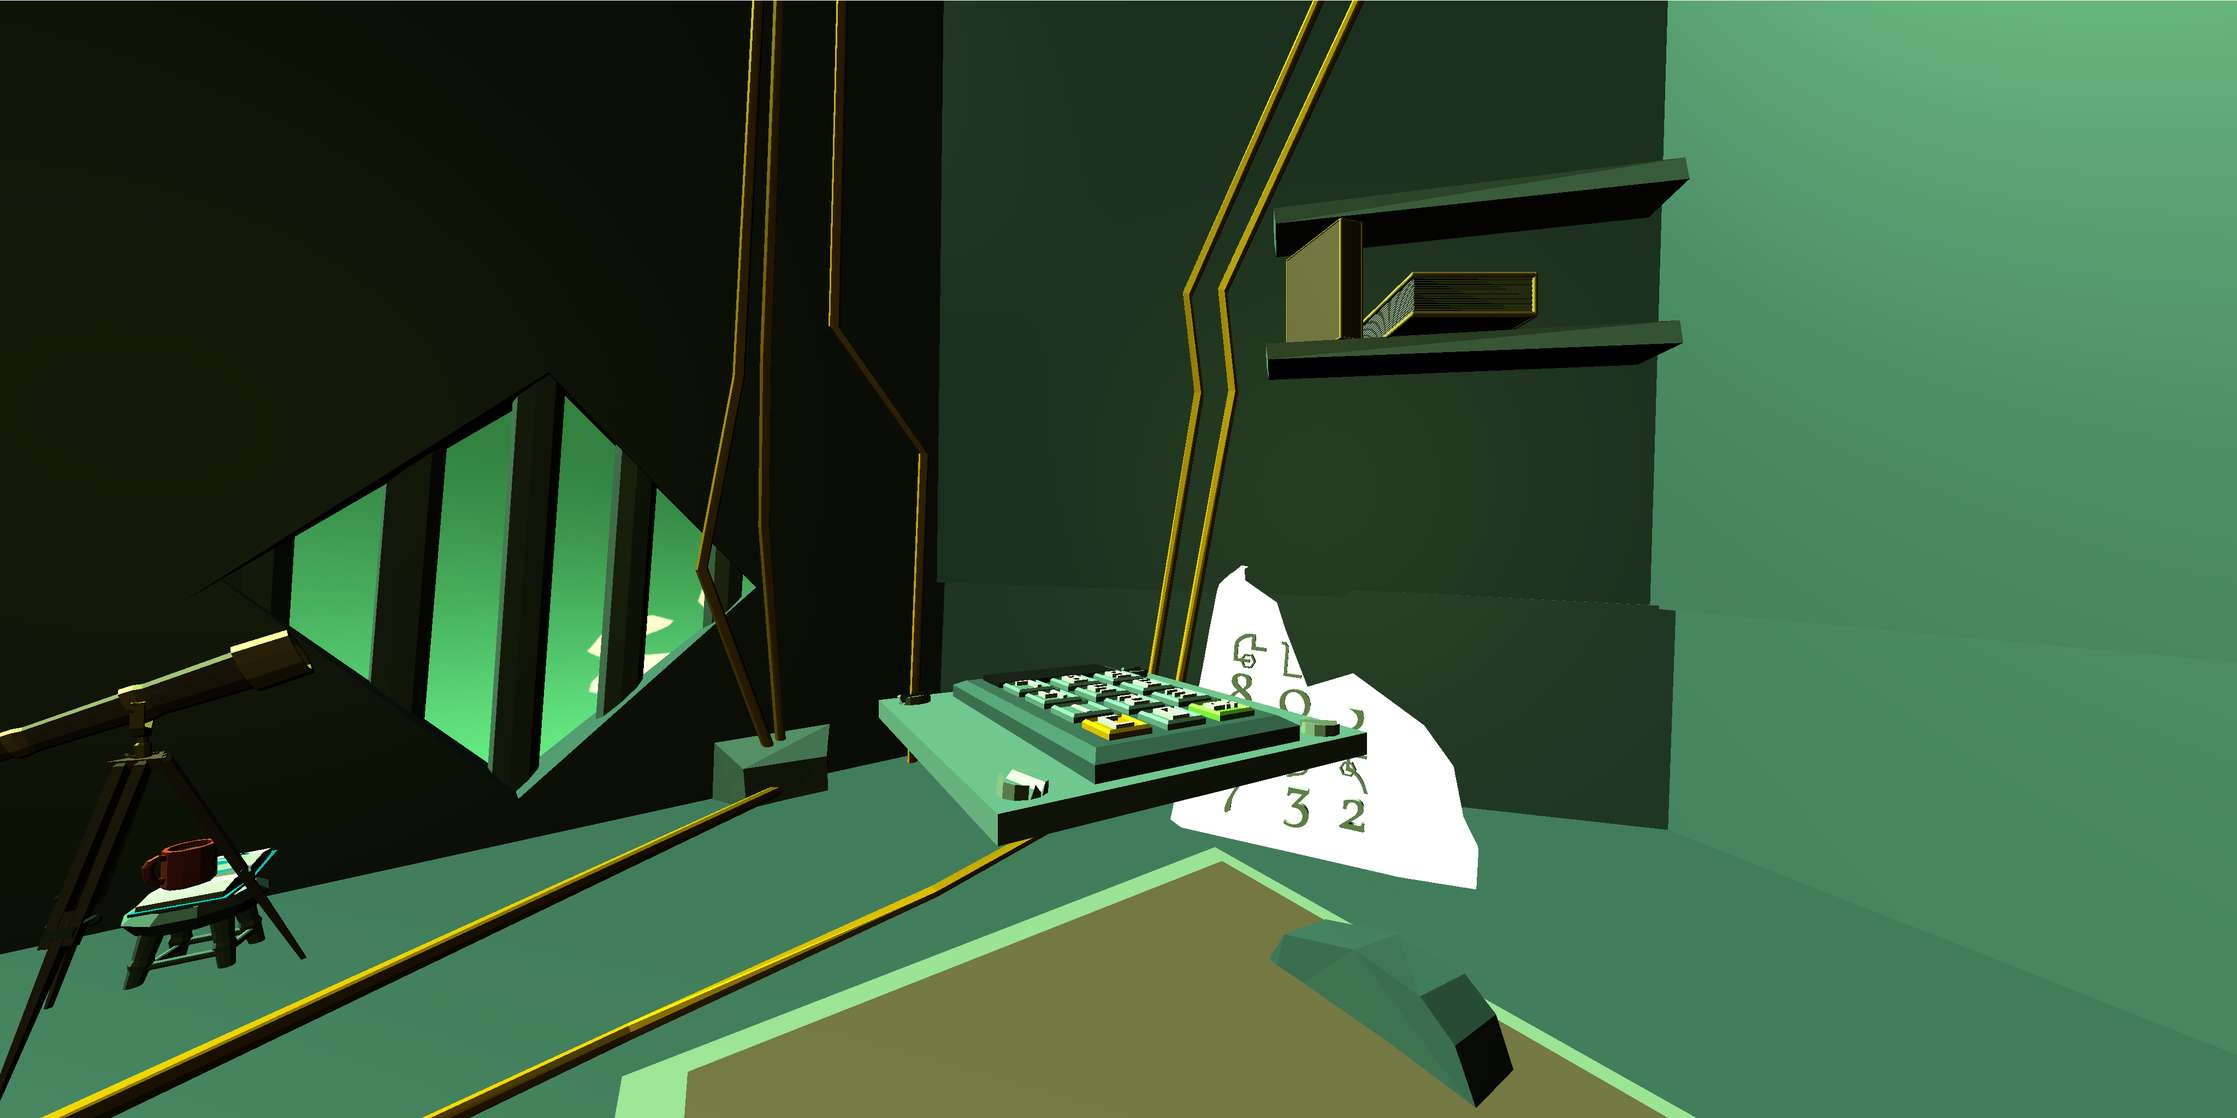
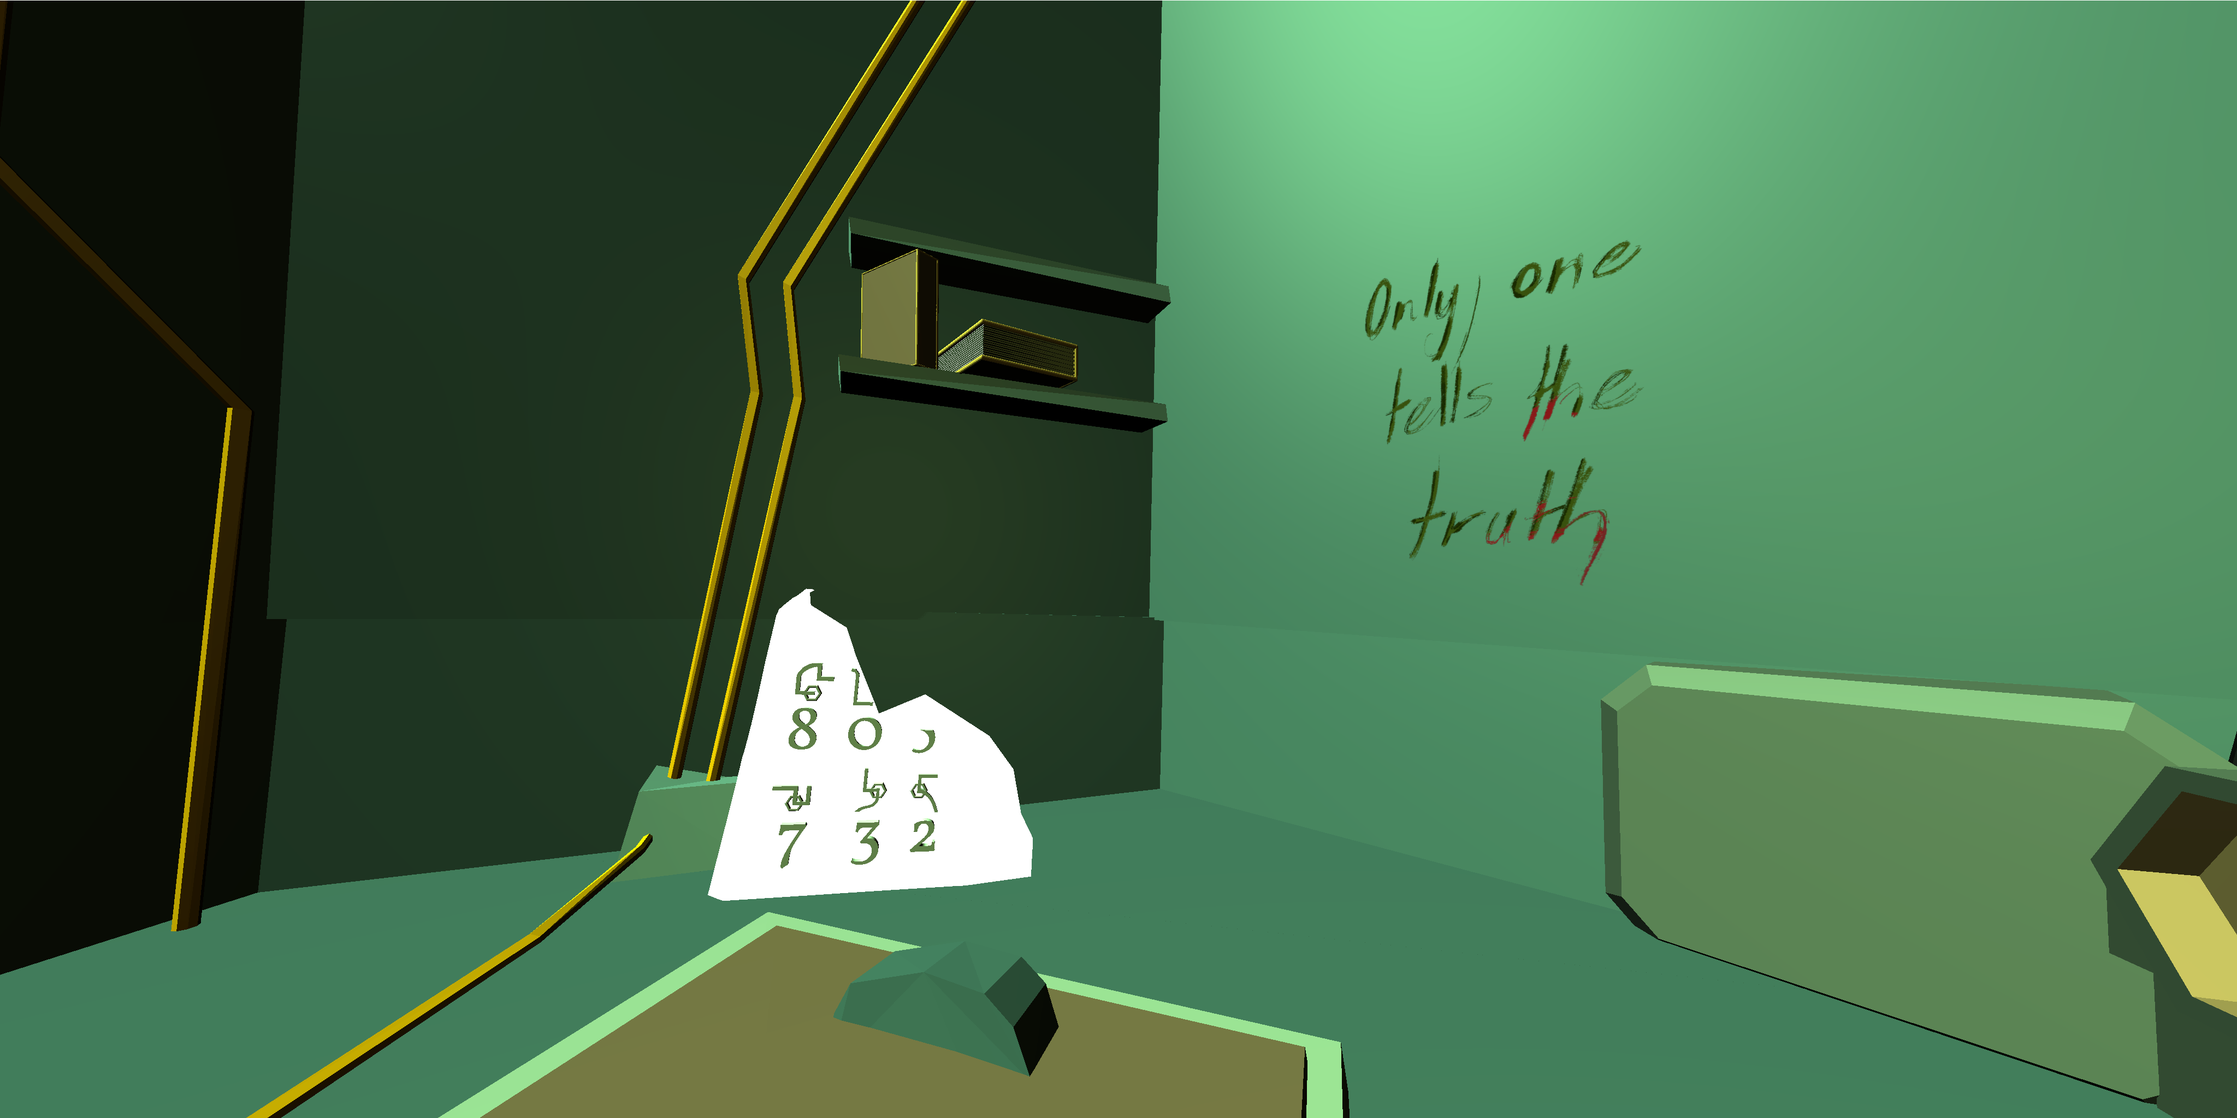
ONLY ONE TRUTH

diff --git a/Hologram/PolyislandHologram.hologram/hologram/build/main.js b/Hologram/PolyislandHologram.hologram/hologram/build/main.js
@@ -1,4 +1,4 @@
-window.__assets={"29AEseoy9pN_cBcC1gPzvzs_obj":"29AEseoy9pN_cBcC1gPzvzs_obj/model.obj","2oA770SsWii_5JYR_gBc26__obj":"2oA770SsWii_5JYR_gBc26__obj/1302 Sump Pump.obj","3HJCpDzBQEw_3fftnnyZGpe_obj":"3HJCpDzBQEw_3fftnnyZGpe_obj/model.obj","8BCxcUDQaOY_obj":"8BCxcUDQaOY_obj/model.obj","Cross":"Cross.png","Keypad":"Keypad/keypad.obj","Labyrinth1":"Labyrinth1.5.dae","Radio":"Radio/WalkieTalkie.obj","Rune 1":"Rune 1/runeTafelSpliter1 copy.obj","Rune 2":"Rune 2/runeTafelSpliter2 copy.obj","Sky":"Sky.jpg","Skywithclouds":"Skywithclouds.jpg","bMX7za_ikof_obj":"bMX7za_ikof_obj/model.obj","ipvryk":"ipvryk/model-triangulated.obj","nwcfcj":"nwcfcj/model-triangulated.obj","ripped-1806471_1920":"ripped-1806471_1920.png","ripped-1806471_19201":"ripped-1806471_19201.png"};(function(scope) {Hologram.effects.bloom = null;Hologram.scene.fog = null;var __zxzgnpp7q = new Sky({color:"#d9f5ff"});var __oiwibj3ca = new Model({position:"-6.028 -4.158 -3.049",rotation:"-3 -0.19 0",scale:"130 130 130",src:"ipvryk"});var __0l1g51flh = new Model({position:"13.639 1.778 5.683",rotation:"180 37.34 -0.18",scale:"0.1 0.1 0.1",src:"2oA770SsWii_5JYR_gBc26__obj"});var __suwrsnb7m = new Model({position:"19.612 0.113 -1.184",rotation:"90 37.34 124.49",scale:"0.1 0.1 0.1",src:"2oA770SsWii_5JYR_gBc26__obj"});var __0vqwbbd64 = new Model({position:"1.187 -3.417 5.834",scale:"0.3 0.3 0.3",shadow:false,src:"Labyrinth1"});var __vqom8n6h5 = new Image({position:"1.545 -3.59 3.892",rotation:"-90 0 0",scale:"0.6 0.6 1",src:"Cross"});var __8shd53ptg = new Image({position:"2.225 -3.601 4.415",rotation:"-90 0 0",scale:"0.6 0.6 1",src:"Cross"});var __bxupqmly2 = new Image({position:"2.541 -3.568 5.471",rotation:"-90 0 0",scale:"0.6 0.6 1",src:"Cross"});var __khjr1dywg = new Image({position:"3.722 -3.608 4.32",rotation:"-90 0 0",scale:"0.6 0.6 1",src:"Cross"});var __virteqqxn = new Image({position:"4.649 -3.615 3.445",rotation:"-90 0 0",scale:"0.44 0.27 1",src:"Cross"});var __brtwim0gi = new Image({position:"5.913 -3.601 1.525",rotation:"-90 0 0",scale:"0.42 0.47 1",src:"Cross"});var __0b3lhis7g = new Image({position:"5.48 -3.605 1.424",rotation:"-90 0 0",scale:"0.6 0.56 1",src:"Cross"});var __d9syhfhsa = new Image({position:"3.45 -3.579 2.48",rotation:"-90 0 0",scale:"0.6 0.6 1",src:"Cross"});var __u2r279o6p = new Image({position:"5.313 -3.627 4.672",rotation:"-90 0 0",scale:"0.53 0.4 1",src:"Cross"});var __eouodeegt = new Image({position:"2.3 -3.486 1.615",rotation:"90 0 14.25",scale:"0.43 0.38 1",src:"Cross"});var __362yxpuyb = new Model({position:"-0.994 -2.992 -0.057",rotation:"-69.08 -0.8 0.45",scale:"0.2 0.2 0.2",src:"Radio"});var __u408lqdzr = new Image({position:"-38.201 3.344 -44.89",rotation:"0 54.19 -2.15",scale:"30 30 1",src:"Skywithclouds"});var __yrn79zdqv = new Image({position:"-5.815 -3.521 4.745",rotation:"90 28.018 55.176",scale:"2 2.25 1",src:"ripped-1806471_1920"});var __kguf75lg4 = new Image({position:"-5.159 -3.498 4.158",rotation:"-89.15223292235609 109.95060088560498 10.599719209920229",scale:"2 2.43 1",src:"ripped-1806471_19201"});var __py90lgyhr = new Model({position:"-13.808 -3.916 0.011",rotation:"2.0626480624709633 86.34473972621505 7.906817572805362",scale:"0.1 0.1 0.1",src:"Rune 1"});var __o330b54ub = new Model({position:"4.007 -3.405 -12.18",rotation:"4.583662361046586 -19.308677695908745 -4.927437038125079",scale:"0.12 0.12 0.12",src:"Rune 2"});var __redz2zco5 = new Model({position:"-3.59 -2.244 11.021",rotation:"31.28349561414295 153.20891441798213 1.0313240312354817",scale:"1.3 1.36 1.03",src:"8BCxcUDQaOY_obj"});var __xol5oix7z = new Model({position:"-12.078 -2.77 0.815",scale:"1.59 2.12 1.06",src:"29AEseoy9pN_cBcC1gPzvzs_obj"});var __7reptopur = new Model({position:"-12.078 -2.063 0.815",rotation:"0 18.907607239317166 0",scale:"1.33 1.56 0.97",src:"29AEseoy9pN_cBcC1gPzvzs_obj"});var __c2p4bsm70 = new Model({position:"-0.899 -2.728 12.093",rotation:"-43.20101775286407 -93.56400794486343 -0.8021409131831525",scale:"1.33 1.56 0.97",src:"29AEseoy9pN_cBcC1gPzvzs_obj"});var __uvssot26i = new Model({position:"4.584 7.112 -13.975",rotation:"90 18.908 90",scale:"1.33 1.56 0.97",src:"29AEseoy9pN_cBcC1gPzvzs_obj"});var __fuo2ht8u3 = new Model({position:"6.779 6.291 -13.067",scale:"1.59 2.12 1.06",src:"29AEseoy9pN_cBcC1gPzvzs_obj"});var __xk09lwql1 = new Model({position:"-11.949 -1.91 -7.916",rotation:"0 -103.99183981624441 0",scale:"2.38 2.39 2.35",src:"3HJCpDzBQEw_3fftnnyZGpe_obj"});var __8b65r6yz9 = new Model({position:"0.422 -2.77 -1.865",rotation:"88.12090889112062 112.70079830223294 -100.66868460448563",scale:"1.3 1.3 1.3",src:"bMX7za_ikof_obj"});Object.assign(scope,{});})(window);/******/ (function(modules) { // webpackBootstrap
+window.__assets={"29AEseoy9pN_cBcC1gPzvzs_obj":"29AEseoy9pN_cBcC1gPzvzs_obj/model.obj","2oA770SsWii_5JYR_gBc26__obj":"2oA770SsWii_5JYR_gBc26__obj/1302 Sump Pump.obj","3HJCpDzBQEw_3fftnnyZGpe_obj":"3HJCpDzBQEw_3fftnnyZGpe_obj/model.obj","8BCxcUDQaOY_obj":"8BCxcUDQaOY_obj/model.obj","Cross":"Cross.png","Keypad":"Keypad/keypad.obj","Labyrinth1":"Labyrinth1.5.dae","Radio":"Radio/WalkieTalkie.obj","Rune 1":"Rune 1/runeTafelSpliter1 copy.obj","Rune 2":"Rune 2/runeTafelSpliter2 copy.obj","Sky":"Sky.jpg","Skywithclouds":"Skywithclouds.jpg","bMX7za_ikof_obj":"bMX7za_ikof_obj/model.obj","ipvryk":"ipvryk/model-triangulated.obj","nwcfcj":"nwcfcj/model-triangulated.obj","ripped-1806471_1920":"ripped-1806471_1920.png","ripped-1806471_19201":"ripped-1806471_19201.png","writing on the wall":"writing on the wall.png","WritingWall":"WritingWall.png"};(function(scope) {Hologram.effects.bloom = null;Hologram.scene.fog = null;var __zxzgnpp7q = new Sky({color:"#d9f5ff"});var __oiwibj3ca = new Model({position:"-6.028 -4.158 -3.049",rotation:"-3 -0.19 0",scale:"130 130 130",src:"ipvryk"});var __0l1g51flh = new Model({position:"13.639 1.778 5.683",rotation:"180 37.34 -0.18",scale:"0.1 0.1 0.1",src:"2oA770SsWii_5JYR_gBc26__obj"});var __suwrsnb7m = new Model({position:"19.612 0.113 -1.184",rotation:"90 37.34 124.49",scale:"0.1 0.1 0.1",src:"2oA770SsWii_5JYR_gBc26__obj"});var __0vqwbbd64 = new Model({position:"1.187 -3.417 5.834",scale:"0.3 0.3 0.3",shadow:false,src:"Labyrinth1"});var __vqom8n6h5 = new Image({position:"1.545 -3.59 3.892",rotation:"-90 0 0",scale:"0.6 0.6 1",src:"Cross"});var __8shd53ptg = new Image({position:"2.225 -3.601 4.415",rotation:"-90 0 0",scale:"0.6 0.6 1",src:"Cross"});var __bxupqmly2 = new Image({position:"2.541 -3.568 5.471",rotation:"-90 0 0",scale:"0.6 0.6 1",src:"Cross"});var __khjr1dywg = new Image({position:"3.722 -3.608 4.32",rotation:"-90 0 0",scale:"0.6 0.6 1",src:"Cross"});var __virteqqxn = new Image({position:"4.649 -3.615 3.445",rotation:"-90 0 0",scale:"0.44 0.27 1",src:"Cross"});var __brtwim0gi = new Image({position:"5.913 -3.601 1.525",rotation:"-90 0 0",scale:"0.42 0.47 1",src:"Cross"});var __0b3lhis7g = new Image({position:"5.48 -3.605 1.424",rotation:"-90 0 0",scale:"0.6 0.56 1",src:"Cross"});var __d9syhfhsa = new Image({position:"3.45 -3.579 2.48",rotation:"-90 0 0",scale:"0.6 0.6 1",src:"Cross"});var __u2r279o6p = new Image({position:"5.313 -3.627 4.672",rotation:"-90 0 0",scale:"0.53 0.4 1",src:"Cross"});var __eouodeegt = new Image({position:"2.3 -3.486 1.615",rotation:"90 0 14.25",scale:"0.43 0.38 1",src:"Cross"});var __362yxpuyb = new Model({position:"-0.994 -2.992 -0.057",rotation:"-69.08 -0.8 0.45",scale:"0.2 0.2 0.2",src:"Radio"});var __u408lqdzr = new Image({position:"-38.201 3.344 -44.89",rotation:"0 54.19 -2.15",scale:"30 30 1",src:"Skywithclouds"});var __yrn79zdqv = new Image({position:"-5.815 -3.521 4.745",rotation:"90 28.018 55.176",scale:"2 2.25 1",src:"ripped-1806471_1920"});var __kguf75lg4 = new Image({position:"-5.159 -3.498 4.158",rotation:"-89.15223292235609 109.95060088560498 10.599719209920229",scale:"2 2.43 1",src:"ripped-1806471_19201"});var __py90lgyhr = new Model({position:"-13.808 -3.916 0.011",rotation:"2.0626480624709633 86.34473972621505 7.906817572805362",scale:"0.1 0.1 0.1",src:"Rune 1"});var __o330b54ub = new Model({position:"4.007 -3.405 -12.18",rotation:"4.583662361046586 -19.308677695908745 -4.927437038125079",scale:"0.12 0.12 0.12",src:"Rune 2"});var __redz2zco5 = new Model({position:"-3.59 -2.244 11.021",rotation:"31.28349561414295 153.20891441798213 1.0313240312354817",scale:"1.3 1.36 1.03",src:"8BCxcUDQaOY_obj"});var __xol5oix7z = new Model({position:"-12.078 -2.77 0.815",scale:"1.59 2.12 1.06",src:"29AEseoy9pN_cBcC1gPzvzs_obj"});var __7reptopur = new Model({position:"-12.078 -2.063 0.815",rotation:"0 18.907607239317166 0",scale:"1.33 1.56 0.97",src:"29AEseoy9pN_cBcC1gPzvzs_obj"});var __c2p4bsm70 = new Model({position:"-0.899 -2.728 12.093",rotation:"-43.20101775286407 -93.56400794486343 -0.8021409131831525",scale:"1.33 1.56 0.97",src:"29AEseoy9pN_cBcC1gPzvzs_obj"});var __uvssot26i = new Model({position:"4.584 7.112 -13.975",rotation:"90 18.908 90",scale:"1.33 1.56 0.97",src:"29AEseoy9pN_cBcC1gPzvzs_obj"});var __fuo2ht8u3 = new Model({position:"6.779 6.291 -13.067",scale:"1.59 2.12 1.06",src:"29AEseoy9pN_cBcC1gPzvzs_obj"});var __xk09lwql1 = new Model({position:"-11.949 -1.91 -7.916",rotation:"0 -103.99183981624441 0",scale:"2.38 2.39 2.35",src:"3HJCpDzBQEw_3fftnnyZGpe_obj"});var __8b65r6yz9 = new Model({position:"0.422 -2.77 -1.865",rotation:"88.12090889112062 112.70079830223294 -100.66868460448563",scale:"1.3 1.3 1.3",src:"bMX7za_ikof_obj"});var __d7g07z4k2 = new Image({position:"12.765 4.788 -4.361",rotation:"0 -78.66710527146203 0",scale:"7.56 6.96 1",src:"WritingWall"});Object.assign(scope,{});})(window);/******/ (function(modules) { // webpackBootstrap
 /******/ 	// The module cache
 /******/ 	var installedModules = {};
 /******/

diff --git a/Hologram/PolyislandHologram.hologram/hologram/hologram.generated.js b/Hologram/PolyislandHologram.hologram/hologram/hologram.generated.js
@@ -1,1 +1,1 @@
-window.__assets={"29AEseoy9pN_cBcC1gPzvzs_obj":"29AEseoy9pN_cBcC1gPzvzs_obj/model.obj","2oA770SsWii_5JYR_gBc26__obj":"2oA770SsWii_5JYR_gBc26__obj/1302 Sump Pump.obj","3HJCpDzBQEw_3fftnnyZGpe_obj":"3HJCpDzBQEw_3fftnnyZGpe_obj/model.obj","8BCxcUDQaOY_obj":"8BCxcUDQaOY_obj/model.obj","Cross":"Cross.png","Keypad":"Keypad/keypad.obj","Labyrinth1":"Labyrinth1.5.dae","Radio":"Radio/WalkieTalkie.obj","Rune 1":"Rune 1/runeTafelSpliter1 copy.obj","Rune 2":"Rune 2/runeTafelSpliter2 copy.obj","Sky":"Sky.jpg","Skywithclouds":"Skywithclouds.jpg","bMX7za_ikof_obj":"bMX7za_ikof_obj/model.obj","ipvryk":"ipvryk/model-triangulated.obj","nwcfcj":"nwcfcj/model-triangulated.obj","ripped-1806471_1920":"ripped-1806471_1920.png","ripped-1806471_19201":"ripped-1806471_19201.png"};(function(scope) {Hologram.effects.bloom = null;Hologram.scene.fog = null;var __zxzgnpp7q = new Sky({color:"#d9f5ff"});var __oiwibj3ca = new Model({position:"-6.028 -4.158 -3.049",rotation:"-3 -0.19 0",scale:"130 130 130",src:"ipvryk"});var __0l1g51flh = new Model({position:"13.639 1.778 5.683",rotation:"180 37.34 -0.18",scale:"0.1 0.1 0.1",src:"2oA770SsWii_5JYR_gBc26__obj"});var __suwrsnb7m = new Model({position:"19.612 0.113 -1.184",rotation:"90 37.34 124.49",scale:"0.1 0.1 0.1",src:"2oA770SsWii_5JYR_gBc26__obj"});var __0vqwbbd64 = new Model({position:"1.187 -3.417 5.834",scale:"0.3 0.3 0.3",shadow:false,src:"Labyrinth1"});var __vqom8n6h5 = new Image({position:"1.545 -3.59 3.892",rotation:"-90 0 0",scale:"0.6 0.6 1",src:"Cross"});var __8shd53ptg = new Image({position:"2.225 -3.601 4.415",rotation:"-90 0 0",scale:"0.6 0.6 1",src:"Cross"});var __bxupqmly2 = new Image({position:"2.541 -3.568 5.471",rotation:"-90 0 0",scale:"0.6 0.6 1",src:"Cross"});var __khjr1dywg = new Image({position:"3.722 -3.608 4.32",rotation:"-90 0 0",scale:"0.6 0.6 1",src:"Cross"});var __virteqqxn = new Image({position:"4.649 -3.615 3.445",rotation:"-90 0 0",scale:"0.44 0.27 1",src:"Cross"});var __brtwim0gi = new Image({position:"5.913 -3.601 1.525",rotation:"-90 0 0",scale:"0.42 0.47 1",src:"Cross"});var __0b3lhis7g = new Image({position:"5.48 -3.605 1.424",rotation:"-90 0 0",scale:"0.6 0.56 1",src:"Cross"});var __d9syhfhsa = new Image({position:"3.45 -3.579 2.48",rotation:"-90 0 0",scale:"0.6 0.6 1",src:"Cross"});var __u2r279o6p = new Image({position:"5.313 -3.627 4.672",rotation:"-90 0 0",scale:"0.53 0.4 1",src:"Cross"});var __eouodeegt = new Image({position:"2.3 -3.486 1.615",rotation:"90 0 14.25",scale:"0.43 0.38 1",src:"Cross"});var __362yxpuyb = new Model({position:"-0.994 -2.992 -0.057",rotation:"-69.08 -0.8 0.45",scale:"0.2 0.2 0.2",src:"Radio"});var __u408lqdzr = new Image({position:"-38.201 3.344 -44.89",rotation:"0 54.19 -2.15",scale:"30 30 1",src:"Skywithclouds"});var __yrn79zdqv = new Image({position:"-5.815 -3.521 4.745",rotation:"90 28.018 55.176",scale:"2 2.25 1",src:"ripped-1806471_1920"});var __kguf75lg4 = new Image({position:"-5.159 -3.498 4.158",rotation:"-89.15223292235609 109.95060088560498 10.599719209920229",scale:"2 2.43 1",src:"ripped-1806471_19201"});var __py90lgyhr = new Model({position:"-13.808 -3.916 0.011",rotation:"2.0626480624709633 86.34473972621505 7.906817572805362",scale:"0.1 0.1 0.1",src:"Rune 1"});var __o330b54ub = new Model({position:"4.007 -3.405 -12.18",rotation:"4.583662361046586 -19.308677695908745 -4.927437038125079",scale:"0.12 0.12 0.12",src:"Rune 2"});var __redz2zco5 = new Model({position:"-3.59 -2.244 11.021",rotation:"31.28349561414295 153.20891441798213 1.0313240312354817",scale:"1.3 1.36 1.03",src:"8BCxcUDQaOY_obj"});var __xol5oix7z = new Model({position:"-12.078 -2.77 0.815",scale:"1.59 2.12 1.06",src:"29AEseoy9pN_cBcC1gPzvzs_obj"});var __7reptopur = new Model({position:"-12.078 -2.063 0.815",rotation:"0 18.907607239317166 0",scale:"1.33 1.56 0.97",src:"29AEseoy9pN_cBcC1gPzvzs_obj"});var __c2p4bsm70 = new Model({position:"-0.899 -2.728 12.093",rotation:"-43.20101775286407 -93.56400794486343 -0.8021409131831525",scale:"1.33 1.56 0.97",src:"29AEseoy9pN_cBcC1gPzvzs_obj"});var __uvssot26i = new Model({position:"4.584 7.112 -13.975",rotation:"90 18.908 90",scale:"1.33 1.56 0.97",src:"29AEseoy9pN_cBcC1gPzvzs_obj"});var __fuo2ht8u3 = new Model({position:"6.779 6.291 -13.067",scale:"1.59 2.12 1.06",src:"29AEseoy9pN_cBcC1gPzvzs_obj"});var __xk09lwql1 = new Model({position:"-11.949 -1.91 -7.916",rotation:"0 -103.99183981624441 0",scale:"2.38 2.39 2.35",src:"3HJCpDzBQEw_3fftnnyZGpe_obj"});var __8b65r6yz9 = new Model({position:"0.422 -2.77 -1.865",rotation:"88.12090889112062 112.70079830223294 -100.66868460448563",scale:"1.3 1.3 1.3",src:"bMX7za_ikof_obj"});Object.assign(scope,{});})(window);
+window.__assets={"29AEseoy9pN_cBcC1gPzvzs_obj":"29AEseoy9pN_cBcC1gPzvzs_obj/model.obj","2oA770SsWii_5JYR_gBc26__obj":"2oA770SsWii_5JYR_gBc26__obj/1302 Sump Pump.obj","3HJCpDzBQEw_3fftnnyZGpe_obj":"3HJCpDzBQEw_3fftnnyZGpe_obj/model.obj","8BCxcUDQaOY_obj":"8BCxcUDQaOY_obj/model.obj","Cross":"Cross.png","Keypad":"Keypad/keypad.obj","Labyrinth1":"Labyrinth1.5.dae","Radio":"Radio/WalkieTalkie.obj","Rune 1":"Rune 1/runeTafelSpliter1 copy.obj","Rune 2":"Rune 2/runeTafelSpliter2 copy.obj","Sky":"Sky.jpg","Skywithclouds":"Skywithclouds.jpg","bMX7za_ikof_obj":"bMX7za_ikof_obj/model.obj","ipvryk":"ipvryk/model-triangulated.obj","nwcfcj":"nwcfcj/model-triangulated.obj","ripped-1806471_1920":"ripped-1806471_1920.png","ripped-1806471_19201":"ripped-1806471_19201.png","writing on the wall":"writing on the wall.png","WritingWall":"WritingWall.png"};(function(scope) {Hologram.effects.bloom = null;Hologram.scene.fog = null;var __zxzgnpp7q = new Sky({color:"#d9f5ff"});var __oiwibj3ca = new Model({position:"-6.028 -4.158 -3.049",rotation:"-3 -0.19 0",scale:"130 130 130",src:"ipvryk"});var __0l1g51flh = new Model({position:"13.639 1.778 5.683",rotation:"180 37.34 -0.18",scale:"0.1 0.1 0.1",src:"2oA770SsWii_5JYR_gBc26__obj"});var __suwrsnb7m = new Model({position:"19.612 0.113 -1.184",rotation:"90 37.34 124.49",scale:"0.1 0.1 0.1",src:"2oA770SsWii_5JYR_gBc26__obj"});var __0vqwbbd64 = new Model({position:"1.187 -3.417 5.834",scale:"0.3 0.3 0.3",shadow:false,src:"Labyrinth1"});var __vqom8n6h5 = new Image({position:"1.545 -3.59 3.892",rotation:"-90 0 0",scale:"0.6 0.6 1",src:"Cross"});var __8shd53ptg = new Image({position:"2.225 -3.601 4.415",rotation:"-90 0 0",scale:"0.6 0.6 1",src:"Cross"});var __bxupqmly2 = new Image({position:"2.541 -3.568 5.471",rotation:"-90 0 0",scale:"0.6 0.6 1",src:"Cross"});var __khjr1dywg = new Image({position:"3.722 -3.608 4.32",rotation:"-90 0 0",scale:"0.6 0.6 1",src:"Cross"});var __virteqqxn = new Image({position:"4.649 -3.615 3.445",rotation:"-90 0 0",scale:"0.44 0.27 1",src:"Cross"});var __brtwim0gi = new Image({position:"5.913 -3.601 1.525",rotation:"-90 0 0",scale:"0.42 0.47 1",src:"Cross"});var __0b3lhis7g = new Image({position:"5.48 -3.605 1.424",rotation:"-90 0 0",scale:"0.6 0.56 1",src:"Cross"});var __d9syhfhsa = new Image({position:"3.45 -3.579 2.48",rotation:"-90 0 0",scale:"0.6 0.6 1",src:"Cross"});var __u2r279o6p = new Image({position:"5.313 -3.627 4.672",rotation:"-90 0 0",scale:"0.53 0.4 1",src:"Cross"});var __eouodeegt = new Image({position:"2.3 -3.486 1.615",rotation:"90 0 14.25",scale:"0.43 0.38 1",src:"Cross"});var __362yxpuyb = new Model({position:"-0.994 -2.992 -0.057",rotation:"-69.08 -0.8 0.45",scale:"0.2 0.2 0.2",src:"Radio"});var __u408lqdzr = new Image({position:"-38.201 3.344 -44.89",rotation:"0 54.19 -2.15",scale:"30 30 1",src:"Skywithclouds"});var __yrn79zdqv = new Image({position:"-5.815 -3.521 4.745",rotation:"90 28.018 55.176",scale:"2 2.25 1",src:"ripped-1806471_1920"});var __kguf75lg4 = new Image({position:"-5.159 -3.498 4.158",rotation:"-89.15223292235609 109.95060088560498 10.599719209920229",scale:"2 2.43 1",src:"ripped-1806471_19201"});var __py90lgyhr = new Model({position:"-13.808 -3.916 0.011",rotation:"2.0626480624709633 86.34473972621505 7.906817572805362",scale:"0.1 0.1 0.1",src:"Rune 1"});var __o330b54ub = new Model({position:"4.007 -3.405 -12.18",rotation:"4.583662361046586 -19.308677695908745 -4.927437038125079",scale:"0.12 0.12 0.12",src:"Rune 2"});var __redz2zco5 = new Model({position:"-3.59 -2.244 11.021",rotation:"31.28349561414295 153.20891441798213 1.0313240312354817",scale:"1.3 1.36 1.03",src:"8BCxcUDQaOY_obj"});var __xol5oix7z = new Model({position:"-12.078 -2.77 0.815",scale:"1.59 2.12 1.06",src:"29AEseoy9pN_cBcC1gPzvzs_obj"});var __7reptopur = new Model({position:"-12.078 -2.063 0.815",rotation:"0 18.907607239317166 0",scale:"1.33 1.56 0.97",src:"29AEseoy9pN_cBcC1gPzvzs_obj"});var __c2p4bsm70 = new Model({position:"-0.899 -2.728 12.093",rotation:"-43.20101775286407 -93.56400794486343 -0.8021409131831525",scale:"1.33 1.56 0.97",src:"29AEseoy9pN_cBcC1gPzvzs_obj"});var __uvssot26i = new Model({position:"4.584 7.112 -13.975",rotation:"90 18.908 90",scale:"1.33 1.56 0.97",src:"29AEseoy9pN_cBcC1gPzvzs_obj"});var __fuo2ht8u3 = new Model({position:"6.779 6.291 -13.067",scale:"1.59 2.12 1.06",src:"29AEseoy9pN_cBcC1gPzvzs_obj"});var __xk09lwql1 = new Model({position:"-11.949 -1.91 -7.916",rotation:"0 -103.99183981624441 0",scale:"2.38 2.39 2.35",src:"3HJCpDzBQEw_3fftnnyZGpe_obj"});var __8b65r6yz9 = new Model({position:"0.422 -2.77 -1.865",rotation:"88.12090889112062 112.70079830223294 -100.66868460448563",scale:"1.3 1.3 1.3",src:"bMX7za_ikof_obj"});var __d7g07z4k2 = new Image({position:"12.765 4.788 -4.361",rotation:"0 -78.66710527146203 0",scale:"7.56 6.96 1",src:"WritingWall"});Object.assign(scope,{});})(window);
